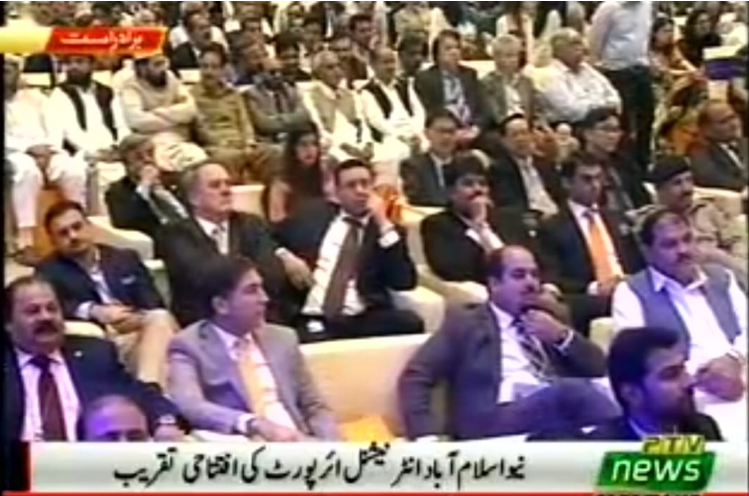
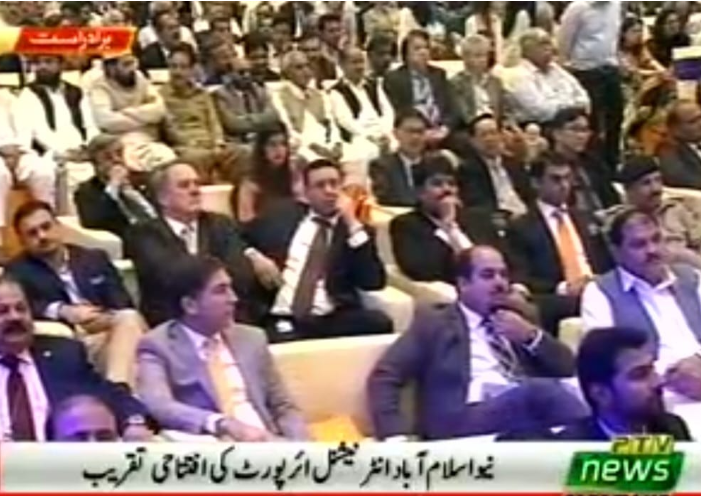
Admin panel changes edit option

diff --git a/admin.html b/admin.html
@@ -3492,11 +3492,12 @@
         }
 
         const CERTIFICATE_CATEGORY_ORDER = [
-            { rank: 1, match: ['minister'] },
-            { rank: 2, match: ['federal government'] },
-            { rank: 3, match: ['ambassador', 'high commission'] },
-            { rank: 4, match: ['caa', 'paa'] },
-            { rank: 5, match: ['airline'] }
+            { rank: 1, match: ['president', 'prime minister'] },
+            { rank: 2, match: ['minister'] },
+            { rank: 3, match: ['federal government'] },
+            { rank: 4, match: ['ambassador', 'high commission'] },
+            { rank: 5, match: ['caa', 'paa'] },
+            { rank: 6, match: ['airline'] }
         ];
 
         function getCertificateCategoryRank(category) {

diff --git a/index.html b/index.html
@@ -1653,11 +1653,12 @@
         }
 
         const CERTIFICATE_CATEGORY_ORDER = [
-            { rank: 1, match: ['minister'] },
-            { rank: 2, match: ['federal government'] },
-            { rank: 3, match: ['ambassador', 'high commission'] },
-            { rank: 4, match: ['caa', 'paa'] },
-            { rank: 5, match: ['airline'] }
+            { rank: 1, match: ['president', 'prime minister'] },
+            { rank: 2, match: ['minister'] },
+            { rank: 3, match: ['federal government'] },
+            { rank: 4, match: ['ambassador', 'high commission'] },
+            { rank: 5, match: ['caa', 'paa'] },
+            { rank: 6, match: ['airline'] }
         ];
 
         function getCertificateCategoryRank(category) {
